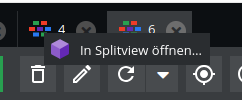
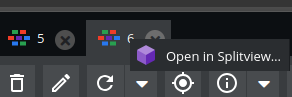
translated texts to en

diff --git a/public/js/pimcore/splitviewmenu.js b/public/js/pimcore/splitviewmenu.js
@@ -6,7 +6,7 @@ pimcore.plugin.WatzaSplitViewBundle = Class.create({
         pimcore.object.splitviewOpen = pimcore.object.splitviewOpen || [];
         pimcore.object.splitviewDetached = pimcore.object.splitviewDetached || new Set();
 
-        // Flag für laufendes Splitview-Schließen
+        // Flag for ongoing splitview closing
         this._watzaSplitviewClosing = false;
 
         this.defineSplitviewClass();
@@ -66,7 +66,7 @@ pimcore.plugin.WatzaSplitViewBundle = Class.create({
             findEditorLayout: function(tab) {
                 if (!tab || !tab.items || tab.items.length === 0) return null;
 
-                // Inhalt + Toolbar klonen
+                // Clone content + toolbar
                 const layoutItems = [];
                 tab.items.each(item => layoutItems.push(item));
 
@@ -89,11 +89,11 @@ pimcore.plugin.WatzaSplitViewBundle = Class.create({
 
                 if (!leftLayout || !rightLayout) return;
 
-                // Original-Layouts speichern
+                // Store original layouts
                 this.leftTab._originalLayout  = leftLayout;
                 this.rightTab._originalLayout = rightLayout;
 
-                // Tabs verstecken, aber Layouts nicht entfernen
+                // Hide tabs but do not remove layouts
                 this.leftTab.tab.hide();
                 this.rightTab.tab.hide();
 
@@ -130,11 +130,11 @@ pimcore.plugin.WatzaSplitViewBundle = Class.create({
 
                             const tabPanel = this.getMainTabPanel();
 
-                            // Alte Tabs komplett schließen
+                            // Completely close old tabs
                             if (this.leftTab) tabPanel.remove(this.leftTab, true);
                             if (this.rightTab) tabPanel.remove(this.rightTab, true);
 
-                            // Objekte neu öffnen
+                            // Reopen objects
                             pimcore.helpers.openObject(this.idLeft);
                             pimcore.helpers.openObject(this.idRight);
 
@@ -161,19 +161,19 @@ pimcore.plugin.WatzaSplitViewBundle = Class.create({
 
             const objId = newTab.id.replace("object_", "");
 
-            // Wenn gerade eine Splitview geschlossen wird → nichts blocken
+            // If a splitview is currently being closed → do not block
             if (bundle._watzaSplitviewClosing || newTab._watzaClosing) return true;
 
-            // Nur blocken, wenn das Objekt aktuell in einer offenen Splitview ist
+            // Only block if the object is currently in an open splitview
             if (pimcore.object.splitviewDetached.has(objId)) {
-                // Prüfen, ob der Tab gerade **neu geöffnet wird** (z.B. nach Splitview-Schließen)
+                // Check if the tab is currently **being reopened** (e.g., after splitview closing)
                 const wasSplitviewClosed = bundle._watzaSplitviewClosing;
                 if (wasSplitviewClosed) {
-                    return true; // Tab darf wechseln, keine Meldung
+                    return true; // Tab can switch, no alert
                 }
                 Ext.Msg.alert(
                     "Info",
-                    "Dieses Objekt ist derzeit in einer Splitview geöffnet.<br>Bitte schließe die Splitview zuerst."
+                    "This object is currently opened in a splitview.<br>Please close the splitview first."
                 );
                 return false;
             }
@@ -207,10 +207,10 @@ pimcore.plugin.WatzaSplitViewBundle = Class.create({
                 if (!menu._watzaHooked) {
                     menu._watzaHooked = true;
                     menu.on("beforeshow", () => {
-                        if (!menu.items.findBy(i => i.text === "In Splitview öffnen…")) {
+                        if (!menu.items.findBy(i => i.text === "Open in Splitview…")) {
                             if (menu.items.length > 0) menu.add('-');
                             menu.add({
-                                text: "In Splitview öffnen…",
+                                text: "Open in Splitview…",
                                 iconCls: "pimcore_icon_object",
                                 handler: () => this.handleSplitviewClick(tab, tabPanel)
                             });
@@ -224,7 +224,7 @@ pimcore.plugin.WatzaSplitViewBundle = Class.create({
     },
 
     handleSplitviewClick: function(tab, tabPanel) {
-       // Prüfen, ob der Welcome Screen noch offen ist
+       // Check if the Welcome Screen is still open
         const welcomeTab = Array.from(tabPanel.items.items)
             .find(t => {
                 const tabEl = t.tab?.el?.dom;
@@ -235,32 +235,32 @@ pimcore.plugin.WatzaSplitViewBundle = Class.create({
         if (welcomeTab) {
             Ext.Msg.alert(
                 "Info",
-                "Bitte schließe zuerst den Welcome Screen oder das Dashboard, bevor du eine Splitview öffnest."
+                "Please close the Welcome Screen or Dashboard first before opening a splitview."
             );
             return;
         }
 
         const allTabs = Array.from(tabPanel.items.items).filter(t => t && t.id && t.id.startsWith("object_"));
         if (allTabs.length < 2) {
-            pimcore.helpers.showNotification("Info", "Es müssen mindestens zwei Objekt-Tabs geöffnet sein.");
+            pimcore.helpers.showNotification("Info", "At least two object tabs must be open.");
             return;
         }
 
         const clickedId = tab.id.replace("object_", "");
         const activeTab = tabPanel.getActiveTab();
         if (!activeTab || !activeTab.id.startsWith("object_")) {
-            pimcore.helpers.showNotification("Info", "Bitte wähle zuerst einen anderen Objekt-Tab aus.");
+            pimcore.helpers.showNotification("Info", "Please select another object tab first.");
             return;
         }
 
         const activeId = activeTab.id.replace("object_", "");
         if (clickedId === activeId) {
-            pimcore.helpers.showNotification("Info", "Bitte wähle zwei unterschiedliche Objekte.");
+            pimcore.helpers.showNotification("Info", "Please select two different objects.");
             return;
         }
 
         if (this.isSplitviewAlreadyOpen(clickedId, activeId)) {
-            pimcore.helpers.showNotification("Info", "Diese Splitview ist bereits geöffnet.");
+            pimcore.helpers.showNotification("Info", "This splitview is already open.");
             return;
         }
 
